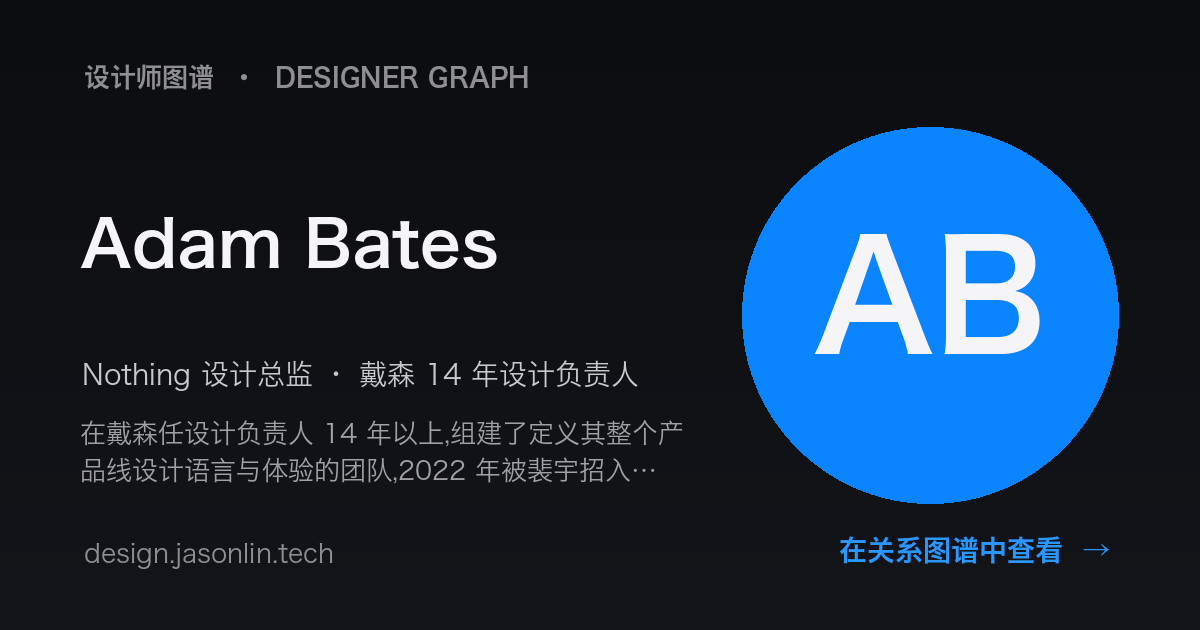
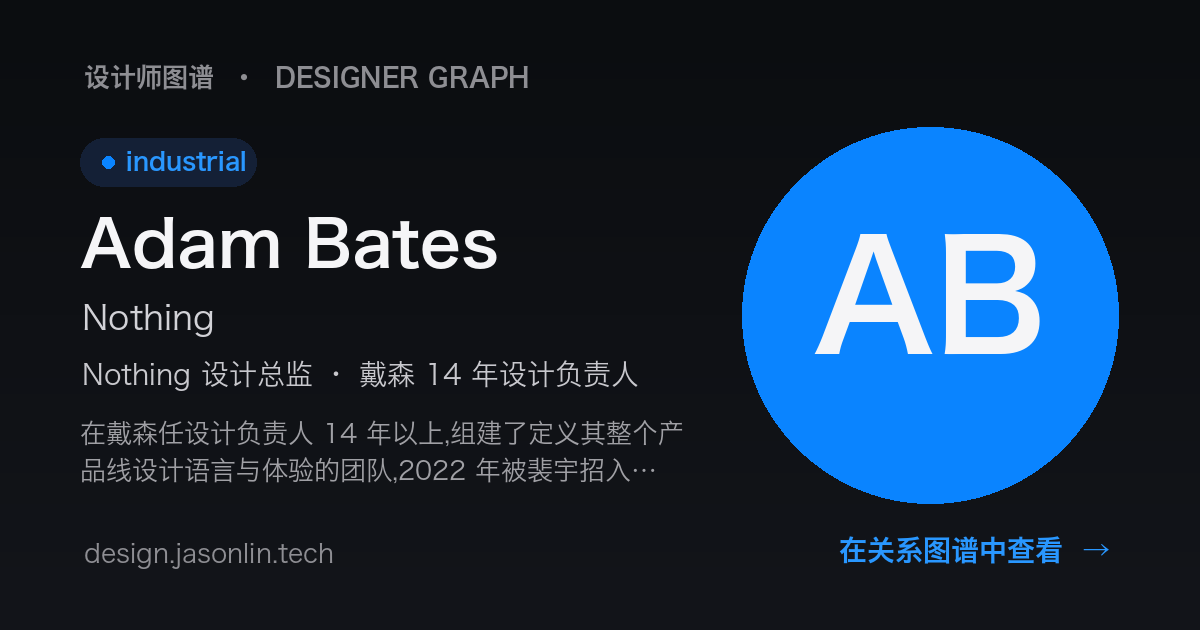
chore: insights-widget v=59;重刷 org 漏读的分享页
Claude-Session: https://claude.ai/code/session_01J8uaPH9eMgzrHih7Y7Prm5

Changed region(s): [[0.0617, 0.2111, 0.2158, 0.3016], [0.0617, 0.4825, 0.185, 0.5429]]

diff --git a/p/katiedill.html b/p/katiedill.html
@@ -5,29 +5,29 @@
    深色页面顶上留一条白边(2026-08-15 实测) */
 :root{color-scheme:dark}html{background:#000}</style>
 <script>try{document.documentElement.className=(localStorage.getItem('graphLang')==='en')?'lang-en':'lang-zh'}catch(e){document.documentElement.className='lang-zh'}</script>
-<title>Katie Dill ·  | 设计师图谱</title>
+<title>Katie Dill · Stripe | 设计师图谱</title>
 <meta name="description" content="2021 年起任 Stripe 设计负责人,此前分别主管 Lyft 体验设计与 Airbnb 设计——连续三家定义了 2010-20 年代设计范式的公司。她提出「MVQP」(最小可行质量产品)来回应 MVP:效用 → 易用 → 美感的三级标准,主张「工艺」不是最后再加的一层奢侈品,而是软件之所以值得…">
 <link rel="canonical" href="https://design.jasonlin.tech/p/katiedill.html">
 <meta property="og:type" content="profile"><meta property="og:url" content="https://design.jasonlin.tech/p/katiedill.html">
-<meta property="og:title" content="Katie Dill · ">
+<meta property="og:title" content="Katie Dill · Head of Design at Stripe · Ex-Airbnb, Ex-Lyft">
 <meta property="og:description" content="2021 年起任 Stripe 设计负责人,此前分别主管 Lyft 体验设计与 Airbnb 设计——连续三家定义了 2010-20 年代设计范式的公司。她提出「MVQP」(最小可行质量产品)来回应 MVP:效用 → 易用 → 美感的三级标准,主张「工艺」不是最后再加的一层奢侈品,而是软件之所以值得…">
 <meta property="og:site_name" content="设计师图谱"><meta property="og:locale" content="zh_CN">
 <meta property="og:image" content="https://design.jasonlin.tech/og/katiedill.png"><meta property="og:image:width" content="1200"><meta property="og:image:height" content="630">
 <meta name="twitter:card" content="summary_large_image">
 <meta name="twitter:title" content="Katie Dill"><meta name="twitter:description" content="2021 年起任 Stripe 设计负责人,此前分别主管 Lyft 体验设计与 Airbnb 设计——连续三家定义了 2010-20 年代设计范式的公司。她提出「MVQP」(最小可行质量产品)来回应 MVP:效用 → 易用 → 美感的三级标准,主张「工艺」不是最后再加的一层奢侈品,而是软件之所以值得…">
 <meta name="twitter:image" content="https://design.jasonlin.tech/og/katiedill.png">
-<script type="application/ld+json">{"@context": "https://schema.org", "@type": "ProfilePage", "mainEntity": {"@type": "Person", "name": "Katie Dill", "alternateName": "凯蒂·迪尔", "jobTitle": "", "worksFor": {"@type": "Organization", "name": ""}, "description": "2021 年起任 Stripe 设计负责人,此前分别主管 Lyft 体验设计与 Airbnb 设计——连续三家定义了 2010-20 年代设计范式的公司。她提出「MVQP」(最小可行质量产品)来回应 MVP:效用 → 易用 → 美感的三级标准,主张「工艺」不是最后再加的一层奢侈品,而是软件之所以值得", "url": "https://design.jasonlin.tech/p/katiedill.html", "image": "https://design.jasonlin.tech/og/katiedill.png"}}</script>
+<script type="application/ld+json">{"@context": "https://schema.org", "@type": "ProfilePage", "mainEntity": {"@type": "Person", "name": "Katie Dill", "alternateName": "凯蒂·迪尔", "jobTitle": "Head of Design at Stripe · Ex-Airbnb, Ex-Lyft", "worksFor": {"@type": "Organization", "name": "Stripe"}, "description": "2021 年起任 Stripe 设计负责人,此前分别主管 Lyft 体验设计与 Airbnb 设计——连续三家定义了 2010-20 年代设计范式的公司。她提出「MVQP」(最小可行质量产品)来回应 MVP:效用 → 易用 → 美感的三级标准,主张「工艺」不是最后再加的一层奢侈品,而是软件之所以值得", "url": "https://design.jasonlin.tech/p/katiedill.html", "image": "https://design.jasonlin.tech/og/katiedill.png"}}</script>
 <style>:root{color-scheme:dark}html{background:#000}</style></head><body>
 <button class="langtoggle" id="langtoggle" type="button" aria-label="切换语言 / Toggle language"><span class="i18n-zh">EN</span><span class="i18n-en">中</span></button>
 <div class="wrap">
 <a class="eyebrow" href="/"><span class="i18n-zh">设计师图谱</span><span class="i18n-en">Designer Graph</span> ↗</a>
 <div class="avatar mono" style="background:linear-gradient(145deg,#0a84ffeb,#0a84ff80);box-shadow:0 0 0 1px rgba(255,255,255,.08),0 0 0 7px #0a84ff24">KD</div>
 <h1><span class="i18n-zh">凯蒂·迪尔</span><span class="i18n-en">Katie Dill</span></h1>
-<p class="org"></p>
-<p class="role"><span class="i18n-zh">Stripe 设计负责人 · 前 Airbnb / Lyft 设计负责人</span><span class="i18n-en"></span></p>
-<div class="fields"></div>
-<div class="bio i18n-zh">2021 年起任 Stripe 设计负责人,此前分别主管 Lyft 体验设计与 Airbnb 设计——连续三家定义了 2010-20 年代设计范式的公司。她提出「MVQP」(最小可行质量产品)来回应 MVP:效用 → 易用 → 美感的三级标准,主张「工艺」不是最后再加的一层奢侈品,而是软件之所以值得信任的原因。《快公司》商业界百位最具创造力人物之一。</div><div class="bio i18n-en"></div>
-<!--XLINKS_START--><p class="meta" style="font-size:13px;margin:10px 0">同一人物 · 姊妹站：<a href="https://aipodcast.jasonlin.tech/pp/katiedill/">听 TA 的播客访谈（AI Podcast）</a></p><!--XLINKS_END--><a class="cta" href="/?node=katiedill"><span class="i18n-zh">在关系图谱中查看 Katie Dill →</span><span class="i18n-en">View Katie Dill in the graph →</span></a>
+<p class="org">Stripe</p>
+<p class="role"><span class="i18n-zh">Stripe 设计负责人 · 前 Airbnb / Lyft 设计负责人</span><span class="i18n-en">Head of Design at Stripe · Ex-Airbnb, Ex-Lyft</span></p>
+<div class="fields"><span class="tag">ux</span></div>
+<div class="bio i18n-zh">2021 年起任 Stripe 设计负责人,此前分别主管 Lyft 体验设计与 Airbnb 设计——连续三家定义了 2010-20 年代设计范式的公司。她提出「MVQP」(最小可行质量产品)来回应 MVP:效用 → 易用 → 美感的三级标准,主张「工艺」不是最后再加的一层奢侈品,而是软件之所以值得信任的原因。《快公司》商业界百位最具创造力人物之一。</div><div class="bio i18n-en">Head of design at Stripe since 2021, previously head of experience design at Lyft and head of design at Airbnb — three consecutive definitive design orgs of the 2010s-20s. She is known for the \&quot;MVQP\&quot; idea (minimum viable quality product) as a rebuttal to MVP: a three-tier bar of Utility → Usability → Beauty, arguing that craft is not a luxury layer added at the end but the thing that makes software trustworthy. One of Fast Company&#x27;s 100 Most Creative People in Business.</div>
+<a class="cta" href="/?node=katiedill"><span class="i18n-zh">在关系图谱中查看 Katie Dill →</span><span class="i18n-en">View Katie Dill in the graph →</span></a>
 <a class="cta2" href="https://aipodcast.jasonlin.tech/#/person/katiedill" rel="noopener"><span class="i18n-zh">听 Katie Dill 的 AI 播客 →</span><span class="i18n-en">Listen on AI Podcast →</span></a>
 
 <h2><span class="i18n-zh">时间线</span><span class="i18n-en">Timeline</span></h2><ul></ul>

diff --git a/p/adambates.html b/p/adambates.html
@@ -5,28 +5,28 @@
    深色页面顶上留一条白边(2026-08-15 实测) */
 :root{color-scheme:dark}html{background:#000}</style>
 <script>try{document.documentElement.className=(localStorage.getItem('graphLang')==='en')?'lang-en':'lang-zh'}catch(e){document.documentElement.className='lang-zh'}</script>
-<title>Adam Bates ·  | 设计师图谱</title>
+<title>Adam Bates · Nothing | 设计师图谱</title>
 <meta name="description" content="在戴森任设计负责人 14 年以上,组建了定义其整个产品线设计语言与体验的团队,2022 年被裴宇招入 Nothing 出任设计总监。他塑造了 Nothing 的透明硬件美学,贯穿 Phone (1)/(2)/(3) 与 Ear 系列,以及 Glyph 灯语交互。他公开表示消费电子设计在 iPhone…">
 <link rel="canonical" href="https://design.jasonlin.tech/p/adambates.html">
 <meta property="og:type" content="profile"><meta property="og:url" content="https://design.jasonlin.tech/p/adambates.html">
-<meta property="og:title" content="Adam Bates · ">
+<meta property="og:title" content="Adam Bates · Design Director of Nothing · 14 Years at Dyson">
 <meta property="og:description" content="在戴森任设计负责人 14 年以上,组建了定义其整个产品线设计语言与体验的团队,2022 年被裴宇招入 Nothing 出任设计总监。他塑造了 Nothing 的透明硬件美学,贯穿 Phone (1)/(2)/(3) 与 Ear 系列,以及 Glyph 灯语交互。他公开表示消费电子设计在 iPhone…">
 <meta property="og:site_name" content="设计师图谱"><meta property="og:locale" content="zh_CN">
 <meta property="og:image" content="https://design.jasonlin.tech/og/adambates.png"><meta property="og:image:width" content="1200"><meta property="og:image:height" content="630">
 <meta name="twitter:card" content="summary_large_image">
 <meta name="twitter:title" content="Adam Bates"><meta name="twitter:description" content="在戴森任设计负责人 14 年以上,组建了定义其整个产品线设计语言与体验的团队,2022 年被裴宇招入 Nothing 出任设计总监。他塑造了 Nothing 的透明硬件美学,贯穿 Phone (1)/(2)/(3) 与 Ear 系列,以及 Glyph 灯语交互。他公开表示消费电子设计在 iPhone…">
 <meta name="twitter:image" content="https://design.jasonlin.tech/og/adambates.png">
-<script type="application/ld+json">{"@context": "https://schema.org", "@type": "ProfilePage", "mainEntity": {"@type": "Person", "name": "Adam Bates", "alternateName": "亚当·贝茨", "jobTitle": "", "worksFor": {"@type": "Organization", "name": ""}, "description": "在戴森任设计负责人 14 年以上,组建了定义其整个产品线设计语言与体验的团队,2022 年被裴宇招入 Nothing 出任设计总监。他塑造了 Nothing 的透明硬件美学,贯穿 Phone (1)/(2)/(3) 与 Ear 系列,以及 Glyph 灯语交互。他公开表示消费电子设计在 iPhone", "url": "https://design.jasonlin.tech/p/adambates.html", "image": "https://design.jasonlin.tech/og/adambates.png"}}</script>
+<script type="application/ld+json">{"@context": "https://schema.org", "@type": "ProfilePage", "mainEntity": {"@type": "Person", "name": "Adam Bates", "alternateName": "亚当·贝茨", "jobTitle": "Design Director of Nothing · 14 Years at Dyson", "worksFor": {"@type": "Organization", "name": "Nothing"}, "description": "在戴森任设计负责人 14 年以上,组建了定义其整个产品线设计语言与体验的团队,2022 年被裴宇招入 Nothing 出任设计总监。他塑造了 Nothing 的透明硬件美学,贯穿 Phone (1)/(2)/(3) 与 Ear 系列,以及 Glyph 灯语交互。他公开表示消费电子设计在 iPhone", "url": "https://design.jasonlin.tech/p/adambates.html", "image": "https://design.jasonlin.tech/og/adambates.png"}}</script>
 <style>:root{color-scheme:dark}html{background:#000}</style></head><body>
 <button class="langtoggle" id="langtoggle" type="button" aria-label="切换语言 / Toggle language"><span class="i18n-zh">EN</span><span class="i18n-en">中</span></button>
 <div class="wrap">
 <a class="eyebrow" href="/"><span class="i18n-zh">设计师图谱</span><span class="i18n-en">Designer Graph</span> ↗</a>
 <div class="avatar mono" style="background:linear-gradient(145deg,#0a84ffeb,#0a84ff80);box-shadow:0 0 0 1px rgba(255,255,255,.08),0 0 0 7px #0a84ff24">AB</div>
 <h1><span class="i18n-zh">亚当·贝茨</span><span class="i18n-en">Adam Bates</span></h1>
-<p class="org"></p>
-<p class="role"><span class="i18n-zh">Nothing 设计总监 · 戴森 14 年设计负责人</span><span class="i18n-en"></span></p>
-<div class="fields"></div>
-<div class="bio i18n-zh">在戴森任设计负责人 14 年以上,组建了定义其整个产品线设计语言与体验的团队,2022 年被裴宇招入 Nothing 出任设计总监。他塑造了 Nothing 的透明硬件美学,贯穿 Phone (1)/(2)/(3) 与 Ear 系列,以及 Glyph 灯语交互。他公开表示消费电子设计在 iPhone 之后「忘了怎么产生新想法」——整个行业停在黑色矩形的共识里不再探索。</div><div class="bio i18n-en"></div>
+<p class="org">Nothing</p>
+<p class="role"><span class="i18n-zh">Nothing 设计总监 · 戴森 14 年设计负责人</span><span class="i18n-en">Design Director of Nothing · 14 Years at Dyson</span></p>
+<div class="fields"><span class="tag">industrial</span><span class="tag">ux</span></div>
+<div class="bio i18n-zh">在戴森任设计负责人 14 年以上,组建了定义其整个产品线设计语言与体验的团队,2022 年被裴宇招入 Nothing 出任设计总监。他塑造了 Nothing 的透明硬件美学,贯穿 Phone (1)/(2)/(3) 与 Ear 系列,以及 Glyph 灯语交互。他公开表示消费电子设计在 iPhone 之后「忘了怎么产生新想法」——整个行业停在黑色矩形的共识里不再探索。</div><div class="bio i18n-en">Spent 14+ years at Dyson as a design lead, building the team that defined the design language and product experience across its portfolio, before Carl Pei recruited him as Nothing&#x27;s design director in 2022. He shaped Nothing&#x27;s transparent-hardware aesthetic across Phone (1)/(2)/(3) and the Ear series, and the Glyph light interface. He has publicly argued that consumer-tech design \&quot;forgot how to have new ideas\&quot; after the iPhone — that the industry settled into a black-rectangle consensus and stopped exploring.</div>
 <a class="cta" href="/?node=adambates"><span class="i18n-zh">在关系图谱中查看 Adam Bates →</span><span class="i18n-en">View Adam Bates in the graph →</span></a>
 
 <h2><span class="i18n-zh">时间线</span><span class="i18n-en">Timeline</span></h2><ul></ul>

diff --git a/p/ianspalter.html b/p/ianspalter.html
@@ -5,28 +5,28 @@
    深色页面顶上留一条白边(2026-08-15 实测) */
 :root{color-scheme:dark}html{background:#000}</style>
 <script>try{document.documentElement.className=(localStorage.getItem('graphLang')==='en')?'lang-en':'lang-zh'}catch(e){document.documentElement.className='lang-zh'}</script>
-<title>Ian Spalter ·  | 设计师图谱</title>
+<title>Ian Spalter · Instagram / Meta | 设计师图谱</title>
 <meta name="description" content="在 Instagram 文化影响力最盛的时期主管设计,涵盖跨平台应用体验与品牌识别——包括 2016 年那次引发争议的渐变 logo 改版。此前是 YouTube 高级 UX 经理、Foursquare 设计总监,更早在 R/GA 工作四年,负责 Nike+ FuelBand 与耐克跑步/篮球/训练…">
 <link rel="canonical" href="https://design.jasonlin.tech/p/ianspalter.html">
 <meta property="og:type" content="profile"><meta property="og:url" content="https://design.jasonlin.tech/p/ianspalter.html">
-<meta property="og:title" content="Ian Spalter · ">
+<meta property="og:title" content="Ian Spalter · Former Head of Design at Instagram">
 <meta property="og:description" content="在 Instagram 文化影响力最盛的时期主管设计,涵盖跨平台应用体验与品牌识别——包括 2016 年那次引发争议的渐变 logo 改版。此前是 YouTube 高级 UX 经理、Foursquare 设计总监,更早在 R/GA 工作四年,负责 Nike+ FuelBand 与耐克跑步/篮球/训练…">
 <meta property="og:site_name" content="设计师图谱"><meta property="og:locale" content="zh_CN">
 <meta property="og:image" content="https://design.jasonlin.tech/og/ianspalter.png"><meta property="og:image:width" content="1200"><meta property="og:image:height" content="630">
 <meta name="twitter:card" content="summary_large_image">
 <meta name="twitter:title" content="Ian Spalter"><meta name="twitter:description" content="在 Instagram 文化影响力最盛的时期主管设计,涵盖跨平台应用体验与品牌识别——包括 2016 年那次引发争议的渐变 logo 改版。此前是 YouTube 高级 UX 经理、Foursquare 设计总监,更早在 R/GA 工作四年,负责 Nike+ FuelBand 与耐克跑步/篮球/训练…">
 <meta name="twitter:image" content="https://design.jasonlin.tech/og/ianspalter.png">
-<script type="application/ld+json">{"@context": "https://schema.org", "@type": "ProfilePage", "mainEntity": {"@type": "Person", "name": "Ian Spalter", "alternateName": "伊恩·斯波尔特", "jobTitle": "", "worksFor": {"@type": "Organization", "name": ""}, "description": "在 Instagram 文化影响力最盛的时期主管设计,涵盖跨平台应用体验与品牌识别——包括 2016 年那次引发争议的渐变 logo 改版。此前是 YouTube 高级 UX 经理、Foursquare 设计总监,更早在 R/GA 工作四年,负责 Nike+ FuelBand 与耐克跑步/篮球/训练", "url": "https://design.jasonlin.tech/p/ianspalter.html", "image": "https://design.jasonlin.tech/og/ianspalter.png"}}</script>
+<script type="application/ld+json">{"@context": "https://schema.org", "@type": "ProfilePage", "mainEntity": {"@type": "Person", "name": "Ian Spalter", "alternateName": "伊恩·斯波尔特", "jobTitle": "Former Head of Design at Instagram", "worksFor": {"@type": "Organization", "name": "Instagram / Meta"}, "description": "在 Instagram 文化影响力最盛的时期主管设计,涵盖跨平台应用体验与品牌识别——包括 2016 年那次引发争议的渐变 logo 改版。此前是 YouTube 高级 UX 经理、Foursquare 设计总监,更早在 R/GA 工作四年,负责 Nike+ FuelBand 与耐克跑步/篮球/训练", "url": "https://design.jasonlin.tech/p/ianspalter.html", "image": "https://design.jasonlin.tech/og/ianspalter.png"}}</script>
 <style>:root{color-scheme:dark}html{background:#000}</style></head><body>
 <button class="langtoggle" id="langtoggle" type="button" aria-label="切换语言 / Toggle language"><span class="i18n-zh">EN</span><span class="i18n-en">中</span></button>
 <div class="wrap">
 <a class="eyebrow" href="/"><span class="i18n-zh">设计师图谱</span><span class="i18n-en">Designer Graph</span> ↗</a>
 <div class="avatar mono" style="background:linear-gradient(145deg,#0a84ffeb,#0a84ff80);box-shadow:0 0 0 1px rgba(255,255,255,.08),0 0 0 7px #0a84ff24">IS</div>
 <h1><span class="i18n-zh">伊恩·斯波尔特</span><span class="i18n-en">Ian Spalter</span></h1>
-<p class="org"></p>
-<p class="role"><span class="i18n-zh">Instagram 前设计负责人</span><span class="i18n-en"></span></p>
-<div class="fields"></div>
-<div class="bio i18n-zh">在 Instagram 文化影响力最盛的时期主管设计,涵盖跨平台应用体验与品牌识别——包括 2016 年那次引发争议的渐变 logo 改版。此前是 YouTube 高级 UX 经理、Foursquare 设计总监,更早在 R/GA 工作四年,负责 Nike+ FuelBand 与耐克跑步/篮球/训练产品线。后来执掌 Instagram 日本。被《快公司》评为美国最具影响力的设计师之一。</div><div class="bio i18n-en"></div>
+<p class="org">Instagram / Meta</p>
+<p class="role"><span class="i18n-zh">Instagram 前设计负责人</span><span class="i18n-en">Former Head of Design at Instagram</span></p>
+<div class="fields"><span class="tag">ux</span><span class="tag">graphic</span></div>
+<div class="bio i18n-zh">在 Instagram 文化影响力最盛的时期主管设计,涵盖跨平台应用体验与品牌识别——包括 2016 年那次引发争议的渐变 logo 改版。此前是 YouTube 高级 UX 经理、Foursquare 设计总监,更早在 R/GA 工作四年,负责 Nike+ FuelBand 与耐克跑步/篮球/训练产品线。后来执掌 Instagram 日本。被《快公司》评为美国最具影响力的设计师之一。</div><div class="bio i18n-en">Led design at Instagram through its era of greatest cultural reach, covering cross-platform app experience, brand and identity — including the controversial 2016 gradient logo redesign. Earlier he was senior UX manager at YouTube, design director at Foursquare, and spent four years at R/GA overseeing Nike+ FuelBand and Nike&#x27;s Running/Basketball/Training products. Later ran Instagram Japan. Named one of America&#x27;s most influential designers by Fast Company.</div>
 <a class="cta" href="/?node=ianspalter"><span class="i18n-zh">在关系图谱中查看 Ian Spalter →</span><span class="i18n-en">View Ian Spalter in the graph →</span></a>
 
 <h2><span class="i18n-zh">时间线</span><span class="i18n-en">Timeline</span></h2><ul></ul>

diff --git a/index.html b/index.html
@@ -1125,7 +1125,7 @@ body.no-insights #graph-container {
 
 <!-- Insights Section (rendered by insights-widget.js) -->
 <section id="insights-section" data-graph="designer"></section>
-<script src="https://hardware.jasonlin.tech/insights-widget.js?v=58" defer></script>
+<script src="https://hardware.jasonlin.tech/insights-widget.js?v=59" defer></script>
 
 <script>
 // ===================================================================
